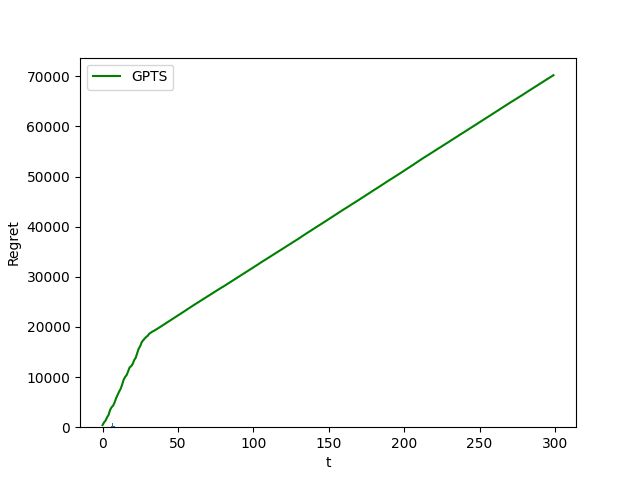
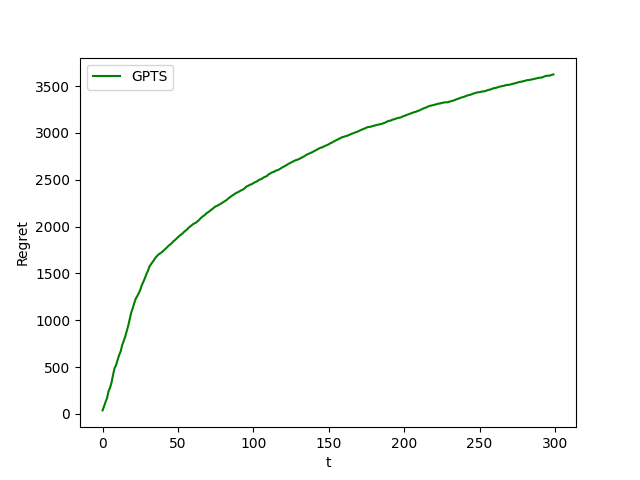
5 fixato

diff --git a/experiments/experiment_5.py b/experiments/experiment_5.py
@@ -15,7 +15,7 @@ class Experiment5():
         self.n_arms = 10
         self.bids = np.array(cm.bids)
         self.prices = cm.prices
-        self.num_people = 100000*np.array(cm.class_distribution)
+        self.num_people = 10000*np.array(cm.class_distribution)
         self.p = cm.aggr_conv_rates()
         self.opt_pricing = np.max(np.multiply(self.p, self.prices)) 
         self.means = cm.aggregated_new_clicks_function_mean(self.bids, self.num_people)
@@ -23,7 +23,7 @@ class Experiment5():
         self.opt = np.max(self.means * (self.opt_pricing - cm.cc(self.bids)))
         self.optimal_bid = np.argmax(self.means * (self.opt_pricing - cm.cc(self.bids)))
         self.T = 300
-        self.n_experiments = 5
+        self.n_experiments = 10
         self.gpts_reward_per_experiment = []
         self.p_arms = []
 
@@ -57,7 +57,7 @@ class Experiment5():
         plt.hist(self.p_arms)
         plt.savefig("img/experiments/experiment_5_hist.png")
         
-        plt.figure(0)
+        plt.figure(1)
         plt.ylabel('Regret')
         plt.xlabel('t')
         plt.plot(np.cumsum(np.mean(self.opt - self.gpts_reward_per_experiment, axis = 0)),'g')

diff --git a/learners.py b/learners.py
@@ -166,8 +166,8 @@ class GPTS_learner_positive(Learner):
     def __init__(self, n_arms, arms, threshold):
         super().__init__(n_arms)
         self.arms = arms
-        self.means = np.ones(n_arms) #np.zeros(n_arms)
-        self.sigmas = np.ones(n_arms)*10
+        self.means = np.ones(n_arms)*10000 #np.zeros(n_arms)
+        self.sigmas = np.ones(n_arms)*10000
         self.pulled_arms = []         # per avere il numero del round utilizzeremo len(pulled_arm)
         self.threshold = threshold
         alpha = 10.0
